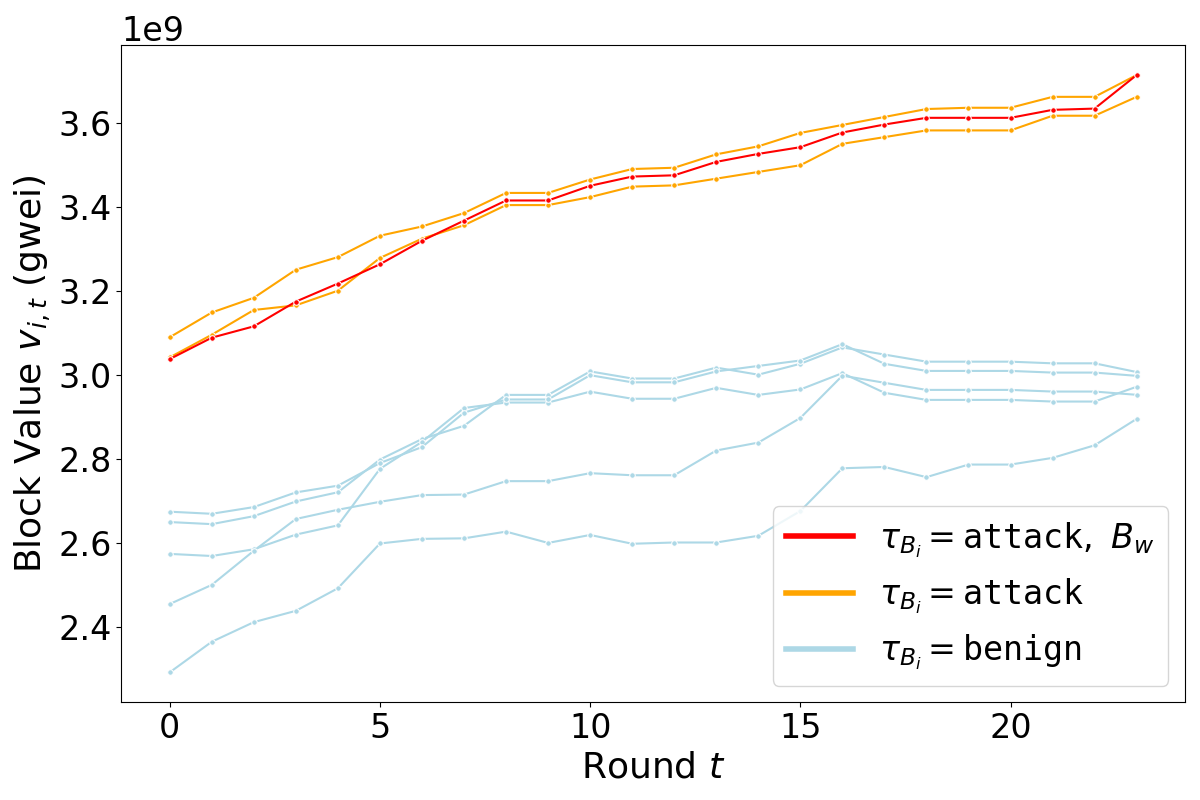
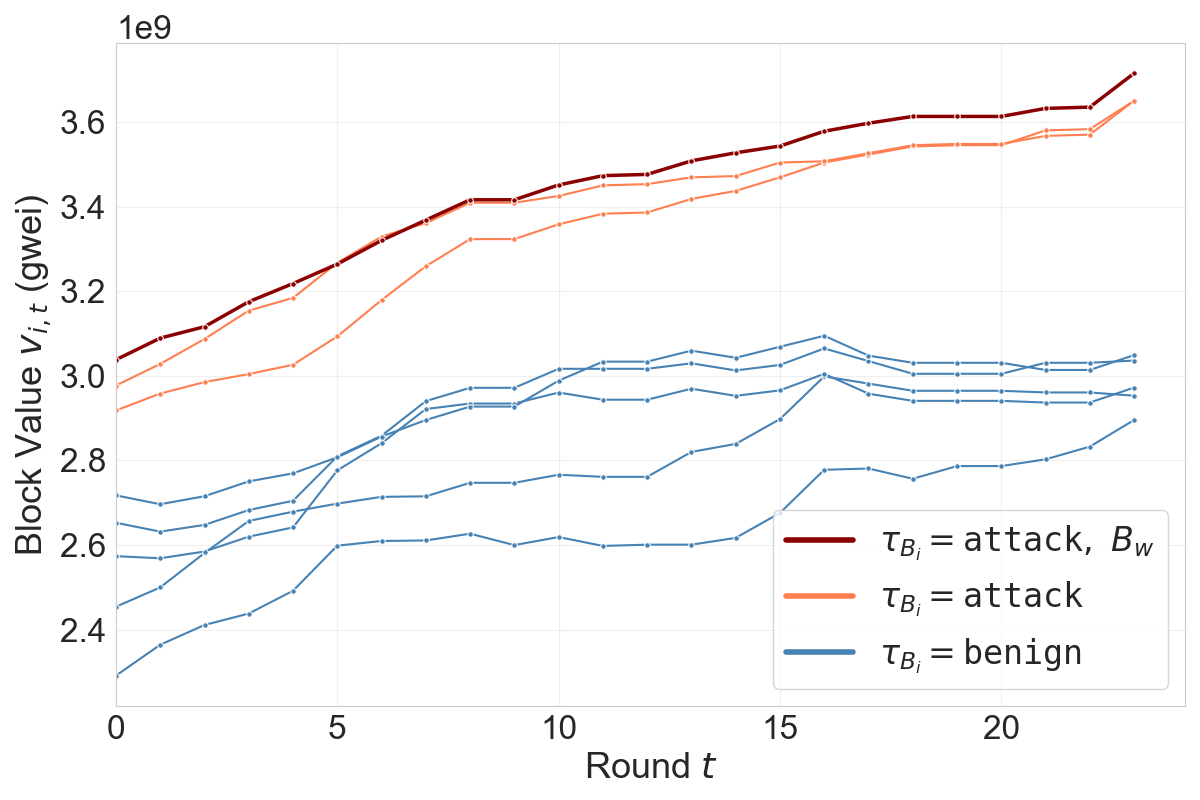
bidding plot colour

diff --git a/plots/ss/bidding_dynamic.py b/plots/ss/bidding_dynamic.py
@@ -3,6 +3,9 @@ import matplotlib.pyplot as plt
 import seaborn as sns
 import numpy as np
 
+# Set Seaborn style for light frame and grid
+sns.set_style("whitegrid")
+
 # random.seed(16)
 
 ATTACK_BUILDERS = {f"builder_{i}" for i in range(3)} | {f"builder_{i+5}" for i in range(10)}
@@ -11,10 +14,10 @@ NON_ATTACK_BUILDERS = {f"builder_{i+3}" for i in range(2)} | {f"builder_{i+15}" 
 def _get_builder_color(builder_id: str, winning_builder: str, is_winning_attacker: bool) -> str:
     """Get color for a builder based on its type and winning status."""
     if builder_id == winning_builder:
-        return 'red'
+        return '#8B0000'  # Dark red (darker purple in red scheme)
     if builder_id in ATTACK_BUILDERS:
-        return 'lightblue'
-    return 'orange'
+        return '#4682B4'  # Steel blue (middle blue)
+    return '#FF7F50'  # Coral (lighter coral in red scheme)
 
 def _select_builders_to_plot(unique_builders: np.ndarray, winning_builder: str) -> np.ndarray:
     """Select which builders to plot based on count."""
@@ -28,12 +31,12 @@ def _select_builders_to_plot(unique_builders: np.ndarray, winning_builder: str) 
 def _create_legend_handles(is_winning_attacker: bool) -> list:
     """Create legend handles for the plot."""
     legend_labels = {
-        r"$\tau_{B_i} = \mathtt{attack},\ B_w$": "red" if not is_winning_attacker else None,
-        r"$\tau_{B_i} = \mathtt{benign},\ B_w$": "red" if is_winning_attacker else None,
-        r"$\tau_{B_i} = \mathtt{attack}$": "orange",
-        r"$\tau_{B_i} = \mathtt{benign}$": "lightblue"
+        r"$\tau_{B_i} = \mathtt{attack},\ B_w$": "#8B0000" if not is_winning_attacker else None,
+        r"$\tau_{B_i} = \mathtt{benign},\ B_w$": "#8B0000" if is_winning_attacker else None,
+        r"$\tau_{B_i} = \mathtt{attack}$": "#FF7F50",
+        r"$\tau_{B_i} = \mathtt{benign}$": "#4682B4"
     }
-    return [plt.Line2D([0], [0], color=color, lw=4, label=label) for label, color in legend_labels.items()]
+    return [plt.Line2D([0], [0], color=color, lw=4, label=label) for label, color in legend_labels.items() if color is not None]
 
 def plot_bid_dynamics(file_path_input, block_number_input):
     """Plot bid dynamics for a selected block."""
@@ -61,12 +64,14 @@ def plot_bid_dynamics(file_path_input, block_number_input):
     for builder_id in selected_builders:
         builder_data = block_data[block_data['builder_id'] == builder_id]
         color = _get_builder_color(builder_id, winning_builder, is_winning_attacker)
+        # Use thicker line for winning builder
+        line_width = 2.5 if builder_id == winning_builder else 1.5
         sns.lineplot(
             data=builder_data,
             x='round_num',
             y='bid',
             marker='o',
-            linewidth=1.5,
+            linewidth=line_width,
             color=color,
             markersize=4,
             label=f"{builder_id} ({'Winning Attacker' if is_winning_attacker else 'Winning Non-Attacker'})" if builder_id == winning_builder else ""
@@ -79,6 +84,13 @@ def plot_bid_dynamics(file_path_input, block_number_input):
     plt.ylabel('Bid Value $b_{i,t}$ (gwei)', fontsize=26)
     plt.tick_params(axis='both', which='major', labelsize=24)
     plt.gca().yaxis.get_offset_text().set_fontsize(24)
+    
+    # Add grid styling to match restake plots
+    plt.grid(True, alpha=0.3)
+    
+    # Set x-axis to start exactly at 0 with no extra space
+    plt.xlim(left=0)
+    
     plt.tight_layout()
     plt.savefig(output_figure_path)
     plt.show()
@@ -116,11 +128,11 @@ def analyze_data(file_path_input):
 def _create_block_value_legend_handles(is_winning_attacker: bool) -> list:
     """Create legend handles for block value plot."""
     legend_labels = {
-        r"$\tau_{B_i} = \mathtt{attack},\ B_w$": "red" if not is_winning_attacker else None,
-        r"$\tau_{B_i} = \mathtt{attack}$": "orange",
-        r"$\tau_{B_i} = \mathtt{benign}$": "lightblue"
+        r"$\tau_{B_i} = \mathtt{attack},\ B_w$": "#8B0000" if not is_winning_attacker else None,
+        r"$\tau_{B_i} = \mathtt{attack}$": "#FF7F50",
+        r"$\tau_{B_i} = \mathtt{benign}$": "#4682B4"
     }
-    return [plt.Line2D([0], [0], color=color, lw=4, label=label) for label, color in legend_labels.items()]
+    return [plt.Line2D([0], [0], color=color, lw=4, label=label) for label, color in legend_labels.items() if color is not None]
 
 def plot_block_value_dynamics(file_path_input, block_number_input):
     """Plot block value dynamics for a selected block."""
@@ -147,12 +159,14 @@ def plot_block_value_dynamics(file_path_input, block_number_input):
     for builder_id in selected_builders:
         builder_data = block_data[block_data['builder_id'] == builder_id]
         color = _get_builder_color(builder_id, winning_builder, is_winning_attacker)
+        # Use thicker line for winning builder
+        line_width = 2.5 if builder_id == winning_builder else 1.5
         sns.lineplot(
             data=builder_data,
             x='round_num',
             y='block_value',
             marker='o',
-            linewidth=1.5,
+            linewidth=line_width,
             color=color,
             markersize=4,
             label=f"{builder_id} ({'Winning Attacker' if is_winning_attacker else 'Winning Non-Attacker'})" if builder_id == winning_builder else ""
@@ -165,6 +179,13 @@ def plot_block_value_dynamics(file_path_input, block_number_input):
     plt.ylabel('Block Value $v_{i,t}$ (gwei)', fontsize=26)
     plt.tick_params(axis='both', which='major', labelsize=24)
     plt.gca().yaxis.get_offset_text().set_fontsize(24)
+    
+    # Add grid styling to match restake plots
+    plt.grid(True, alpha=0.3)
+    
+    # Set x-axis to start exactly at 0 with no extra space
+    plt.xlim(left=0)
+    
     plt.tight_layout()
     plt.savefig(output_figure_path)
     plt.show()
